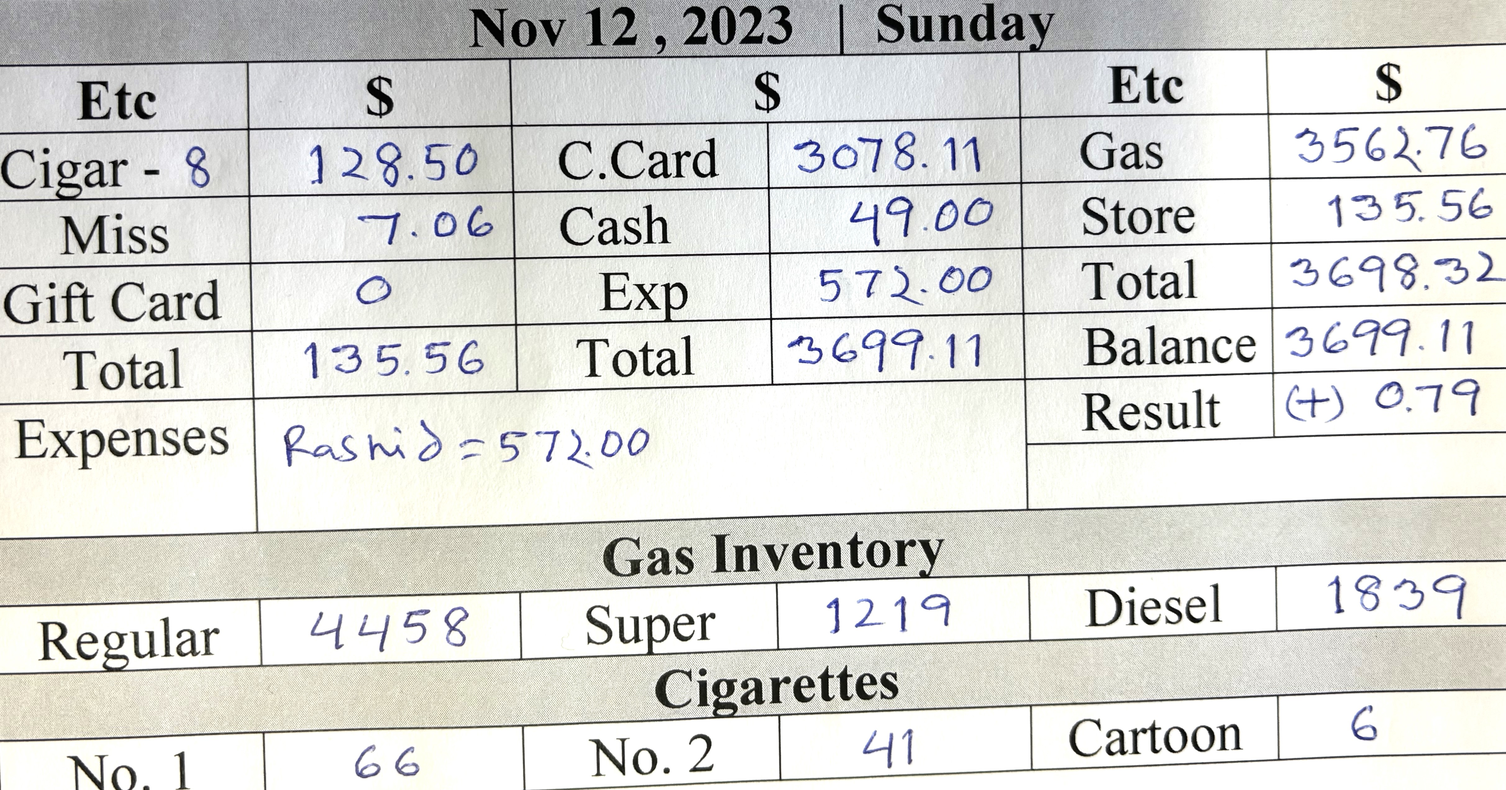
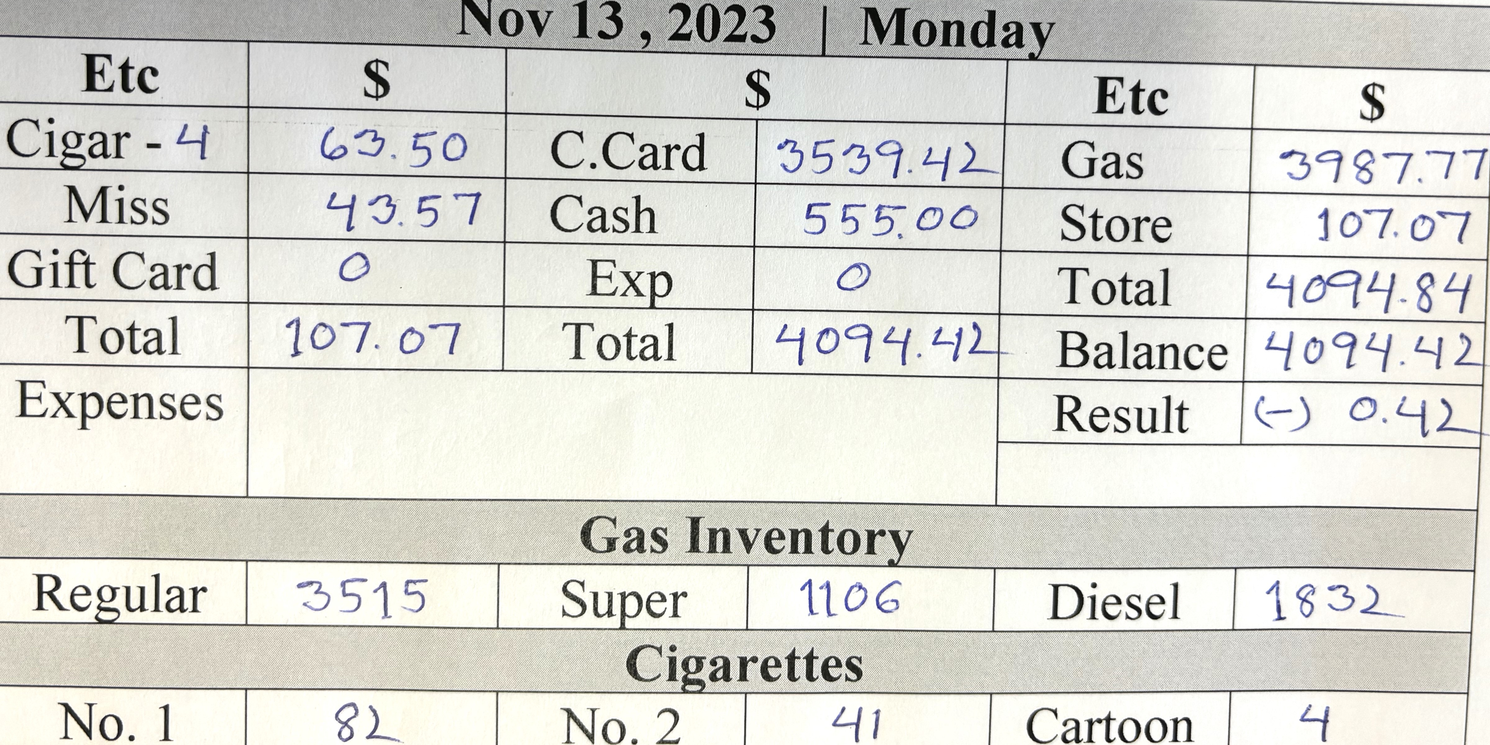
13 done

diff --git a/card.html b/card.html
@@ -67,7 +67,7 @@
         </h5>
           <p class="card-text"></p>
           <p class="card-text"><small class="text-muted"></small></p>
-        <img src="12.jpg" class="card-img-top text-danger text-center fw-bolder fs-3"   alt="Call Rashid ">
+        <img src="13.jpg" class="card-img-top text-danger text-center fw-bolder fs-3"   alt="Call Rashid ">
         <div class="card-body">
           <h5 class="card-title"></h5>
           <p class="card-text"></p>
@@ -78,13 +78,13 @@
         <h5 class="card-title text-center pt-4 m-0">
           <button class="p-1 rounded-3" type="button"><a title="Click Me"
              class="text-primary fw-bolder text-decoration-none " href="index.html">
-             Nov 11,2023
+             Nov 12,2023
           </a>
           </button>
         </h5>
           <p class="card-text"></p>
           <p class="card-text"><small class="text-muted"></small></p>
-        <img src="11.jpg" class="card-img-top text-center text-bg-danger" 
+        <img src="12.jpg" class="card-img-top text-center text-bg-danger" 
         alt="Not Done">
         <div class="card-body">
           <h5 class="card-title"></h5>
@@ -96,13 +96,13 @@
         <h5 class="card-title text-center pt-4 m-0 ">
           <button class="p-1 rounded-3" type="button"><a title="Click Me" 
             class="text-primary fw-bolder text-decoration-none " href="index.html">
-            Nov 10,2023          
+            Nov 11,2023          
           </a>
           </button>
           </h5>
           <p class="card-text"></p>
           <p class="card-text"><small class="text-muted"></small></p>
-        <img src="10.jpg" class="card-img-top text-center text-bg-danger" 
+        <img src="11.jpg" class="card-img-top text-center text-bg-danger" 
         alt="Not Done">
         <div class="card-body">
           <h5 class="card-title"></h5>
@@ -115,13 +115,13 @@
         <h5 class="card-title text-center pt-4 m-0 ">
           <button class="p-1 rounded-3" type="button"><a title="Click Me" 
             class="text-primary fw-bolder text-decoration-none " href="index.html">
-             Nov 9,2023
+             Nov 10,2023
             </a>
           </button>
           </h5>
           <p class="card-text"></p>
           <p class="card-text"><small class="text-muted"></small></p>
-        <img title="Pic" src="9.jpeg" class="card-img-top  text-bg-danger fw-bolder text-center"
+        <img title="Pic" src="10.jpg" class="card-img-top  text-bg-danger fw-bolder text-center"
          alt="Already Done">
         <div class="card-body">
           <h5 class="card-title"></h5>

diff --git a/index.html b/index.html
@@ -97,8 +97,8 @@
           type="button"
           class="btn btn-secondary fs fw-bold text-uppercase"
         >
-         Exp  :  <span class="text-warning ms-3">rashid : 572 </span>
-         <!-- Exp  :  <span class="text-warning ms-3">0</span> -->
+         <!-- Exp  :  <span class="text-warning ms-3">rashid : 572 </span> -->
+         Exp  :  <span class="text-warning ms-3">0</span>
          
         </button>
          
@@ -121,11 +121,11 @@
       <div class="d-flex justify-content-around border border-dark fw-bolder">
         <!--this week start-->
         <div class="p-0 text-info">T.M</div>
-        <div class="p-0 text-danger">1004</div>
+        <div class="p-0 text-danger">354</div>
         <div class="p-0 text-info">Etc</div>
-        <div class="p-0 text-danger">258</div>
+        <div class="p-0 text-danger">129</div>
         <div class="p-0 text-info">Rest</div>
-        <div class="p-0 text-danger">746=373</div>
+        <div class="p-0 text-danger">225</div>
           <!--15-->
           <!--this week end-->
         </div>

diff --git a/cigarettes.html b/cigarettes.html
@@ -124,7 +124,7 @@
                     : 1 carton -->
                   </p>
                   <p class="ms-2">
-                    <span class="text-danger m-lg-3">4.</span>Newport 100 : 2
+                    <span class="text-danger m-lg-3">3.</span>Newport 100 : 2
                     carton
                   </p>
                   <p class="ms-2">
